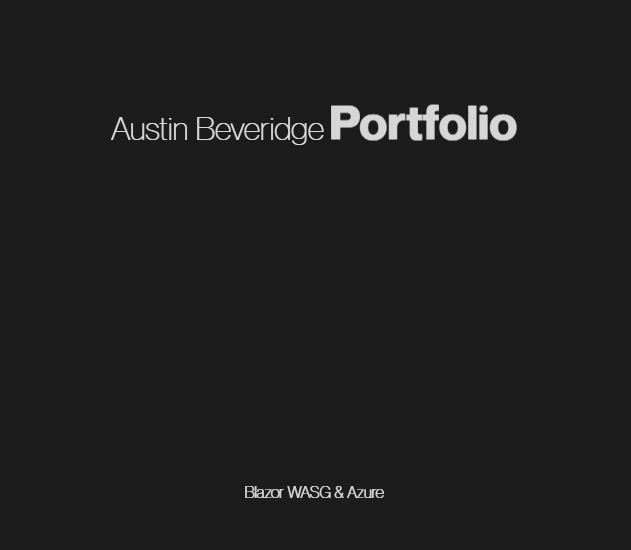
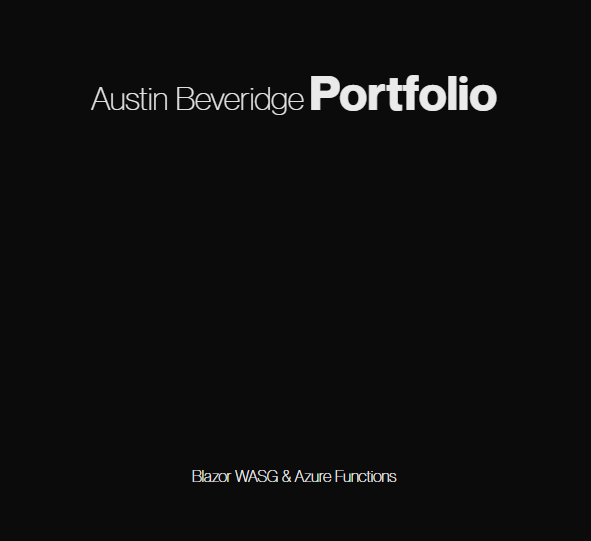
Splash text edit

Changed region(s): [[0.1523, 0.1183, 0.8528, 0.2662], [0.3046, 0.8577, 0.6701, 0.9168]]

diff --git a/AbevPortfolioCsharp/wwwroot/index.html b/AbevPortfolioCsharp/wwwroot/index.html
@@ -34,7 +34,7 @@
             <div class="logo">Austin Beveridge</div>
             <div class="tagline">Portfolio</div>
 
-            <div class="tech-caption">Blazor WASG & Azure</div>
+            <div class="tech-caption">Blazor WASG & Azure Functions</div>
         </div>
     </div>
 

diff --git a/AbevPortfolioCsharp/wwwroot/css/app.css b/AbevPortfolioCsharp/wwwroot/css/app.css
@@ -312,11 +312,11 @@ code {
     }
 
     .splash .logo {
-        font-size: 1.2rem !important;
+        font-size: 5rem !important;
     }
 
     .splash .tagline {
-        font-size: 1.8rem !important;
+        font-size: 2rem !important;
         padding-top: 1.5rem;
     }
 
